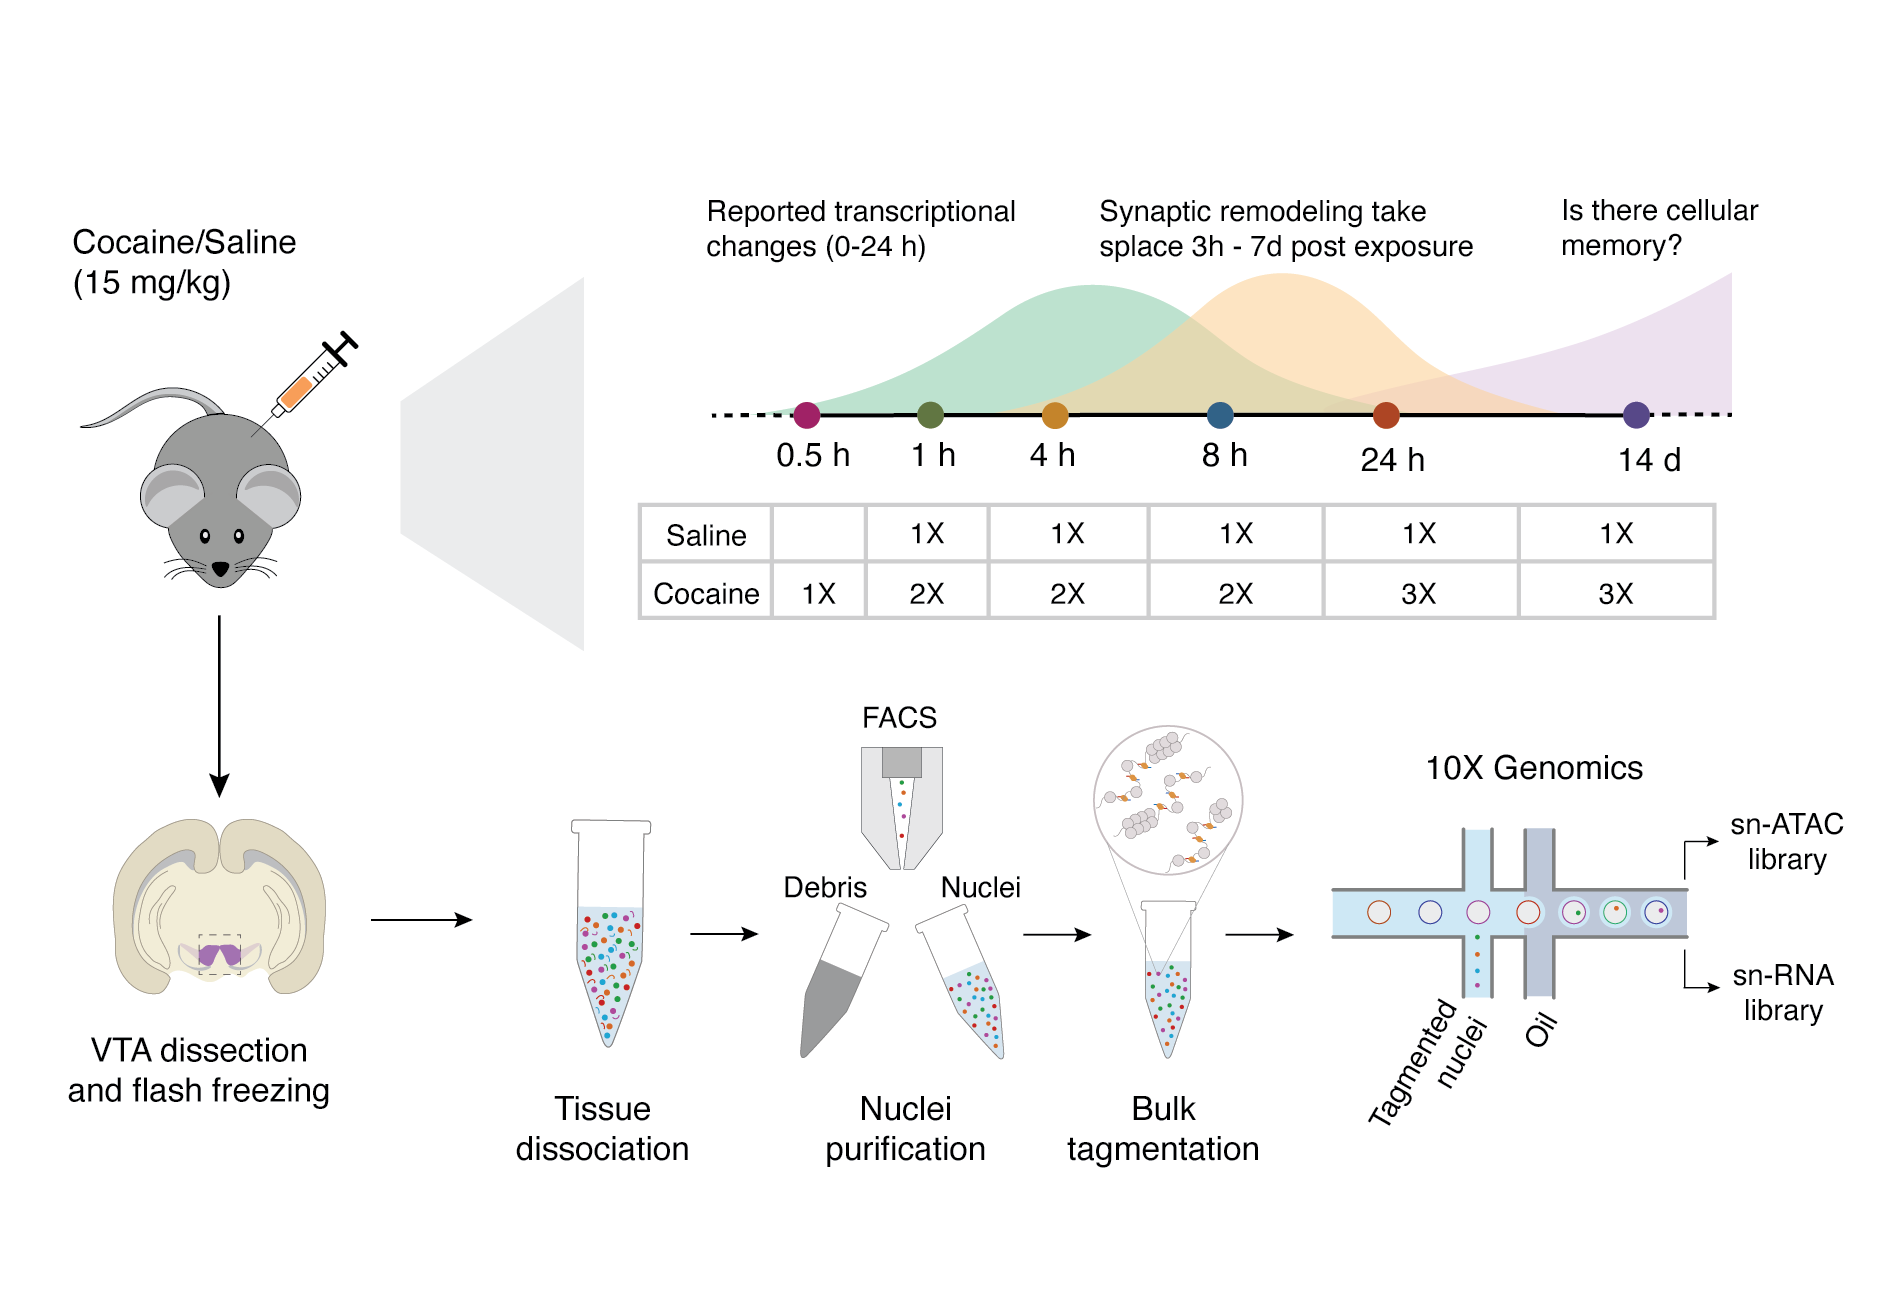
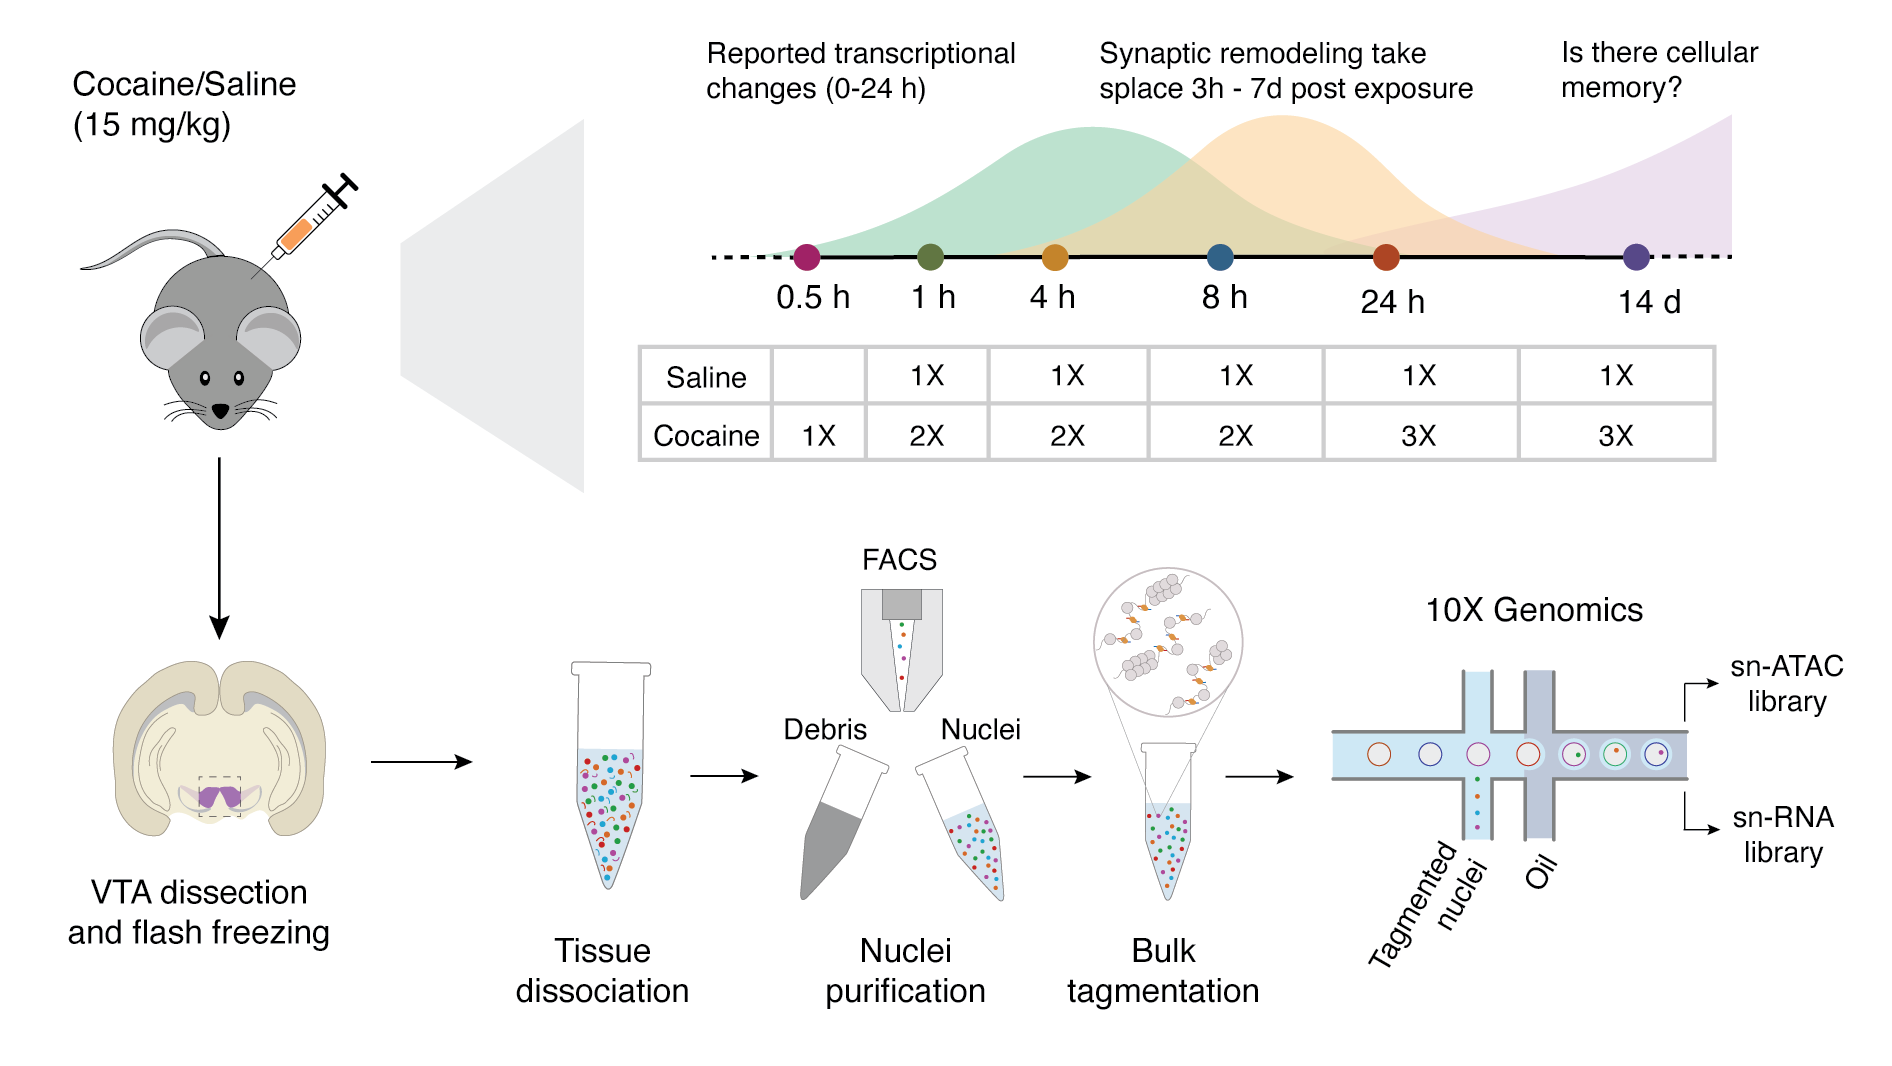
Add remaining summary figures and update README layout

diff --git a/README.md b/README.md
@@ -4,8 +4,7 @@ Welcome! This GitHub repository is complementary to my PhD thesis and our manusc
 
 All the figures in the manuscript and extended data can be reproduced using the scripts in this repository.
 
-This repository contains code used for the analyses in the thesis and manuscript. It is shared for transparency and reproducibility.  
-Please note that the code was developed for research purposes and is not intended to be production-ready or optimized for general use.
+This repository contains code used for the analyses in the thesis and manuscript. It is shared for transparency and reproducibility. Please note that the code was developed for research purposes and is not intended to be production-ready or optimized for general use.
 
 If you have any questions, comments, or suggestions for improvement, feel free to reach out by opening an issue.
 
@@ -24,13 +23,13 @@ This repository contains the following folders:
 
 ## Summary of the project:
 
-**Overview**  
+### Overview  
 Experience-driven stimuli can induce lasting cellular memory through molecular mechanisms, and in the context of addiction, these processes are thought to underlie persistent maladaptive changes long after drug exposure. However, the temporal molecular cascades triggered by a single drug exposure remain poorly understood, particularly at the level of specific neuronal populations. In this project, I set out to investigate genome-wide changes in transcription and chromatin accessibility in dopamine neurons (DNs) from the ventral tegmental area (VTA) following a single cocaine exposure, using paired single-nucleus ATAC-seq and RNA-seq across immediate (0–8h), short-term (24h), and long-term (14d) time points.
 
 <p align="center">
   <img src="figures/summary/experimental_design.png" width="100%">
   <br>
-  <em>Experimental design and sampling time points following single cocaine exposure.</em>
+  <em>Experimental design and sampling time points following single cocaine exposure</em>
 </p>
 
 **Transcriptional responses to cocaine exposure**  
@@ -39,17 +38,35 @@ The results show that even a single exposure to cocaine is sufficient to induce 
 <p align="center">
   <img src="figures/summary/gex_heatmap.png" width="100%">
   <br>
-  <em>Gene expression patterns of DEGs in each vs. saline comparisons.</em>
+  <em>Gene expression patterns of DEGs in each vs. saline comparisons</em>
 </p>
 
 **Temporal gene expression dynamics**  
 To better understand how these changes evolve over time, differential gene expression patterns were organized into distinct temporal trajectories, including Transient, Recovered, Memory, and Delayed responses. This framework reveals that early transcriptional changes are primarily associated with neuronal activation, plasticity, stress responses, and energy metabolism, whereas later changes reflect processes such as metabolic regulation, synaptic remodeling, and RNA processing. Together, these observations suggest a shift from rapid, activity-dependent responses toward more stable and long-lasting cellular reprogramming.
 
+<p align="center">
+  <img src="figures/summary/kmeans_workflow.png" width="100%">
+  <br>
+  <em>Workflow and classification of gene expression trajectories across time</em>
+</p>
+
 **Chromatin accessibility dynamics and transcription factor activity**  
 At the level of chromatin accessibility, dynamic changes over time point to distinct regulatory programs underlying these transcriptional responses. Regions that gain accessibility early after cocaine exposure are strongly enriched for AP-1 motifs and pioneer transcription factors, consistent with canonical activity-dependent chromatin remodeling. In contrast, later changes in accessibility are associated with transcription factors involved in oxidative stress regulation and synaptic remodeling. Regions that lose accessibility display more diverse patterns, including transient repression of activity-related motifs and longer-lasting reductions in factors linked to neuronal identity and plasticity, highlighting the complexity of regulatory repression mechanisms.
 
+<p align="center">
+  <img src="figures/summary/TFenrichment.png" width="100%">
+  <br>
+  <em>TF motif enrichment across dynamic chromatin accessibility classes</em>
+</p>
+
 **Epigenetic features and regulatory mechanisms**  
 Additional analyses provide insight into the epigenetic features associated with these changes. Regions gaining accessibility are enriched for GC-rich sequences, particularly in early and persistent response categories, suggesting a role for CpG-dependent regulatory mechanisms. Furthermore, integration with transcription factor target databases and published ChIP-seq datasets points to a disruption of Polycomb-mediated repression. Genes upregulated following cocaine exposure are enriched for PRC2 targets, and regions gaining accessibility overlap with H3K27me3-marked chromatin, supporting a model in which cocaine exposure leads to the derepression of previously silenced genomic regions.
+
+<p align="center">
+  <img src="figures/summary/PRC2_summary.png" width="100%">
+  <br>
+  <em>A single cocaine exposure induces long-lasting upregulation of Polycomb targets</em>
+</p>
 
 **Conclusion**  
 Taken together, these findings demonstrate that a single cocaine exposure induces temporally structured transcriptional and epigenomic remodeling in VTA dopamine neurons. The response appears to transition from rapid neuronal activation to more persistent regulatory adaptations, involving both chromatin remodeling and the disruption of repressive mechanisms, which may contribute to long-term vulnerability to addiction.
